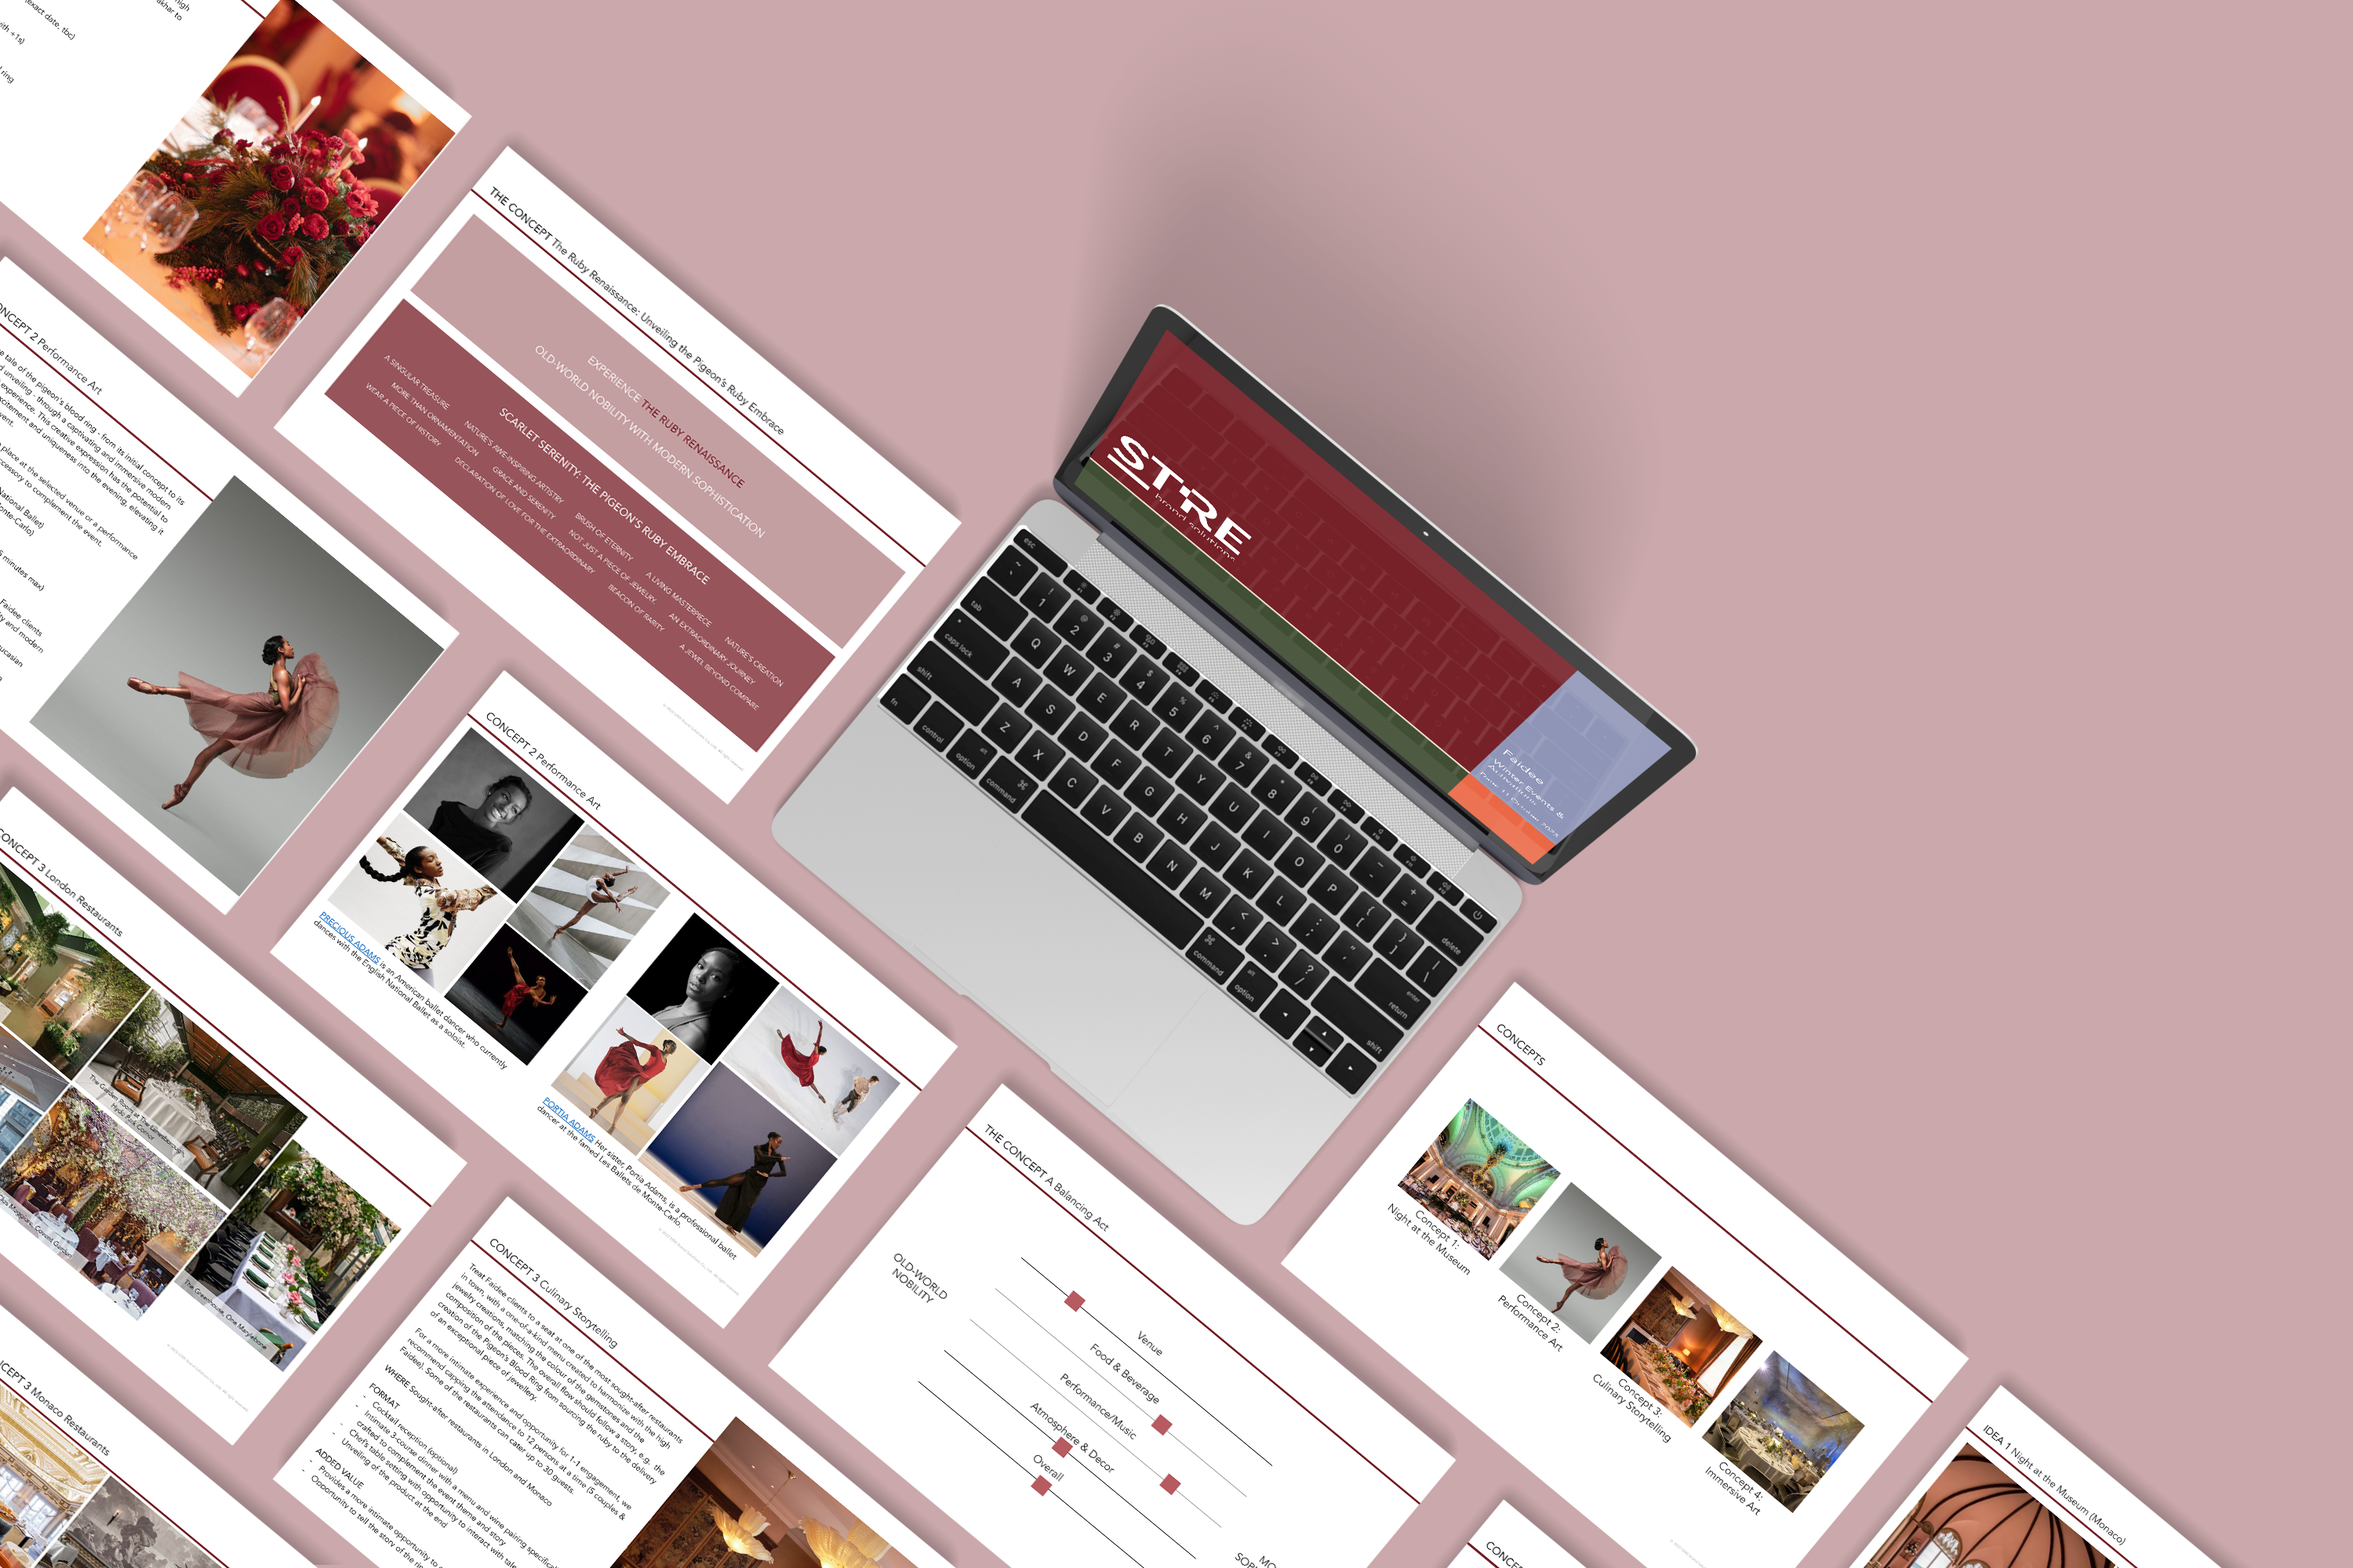
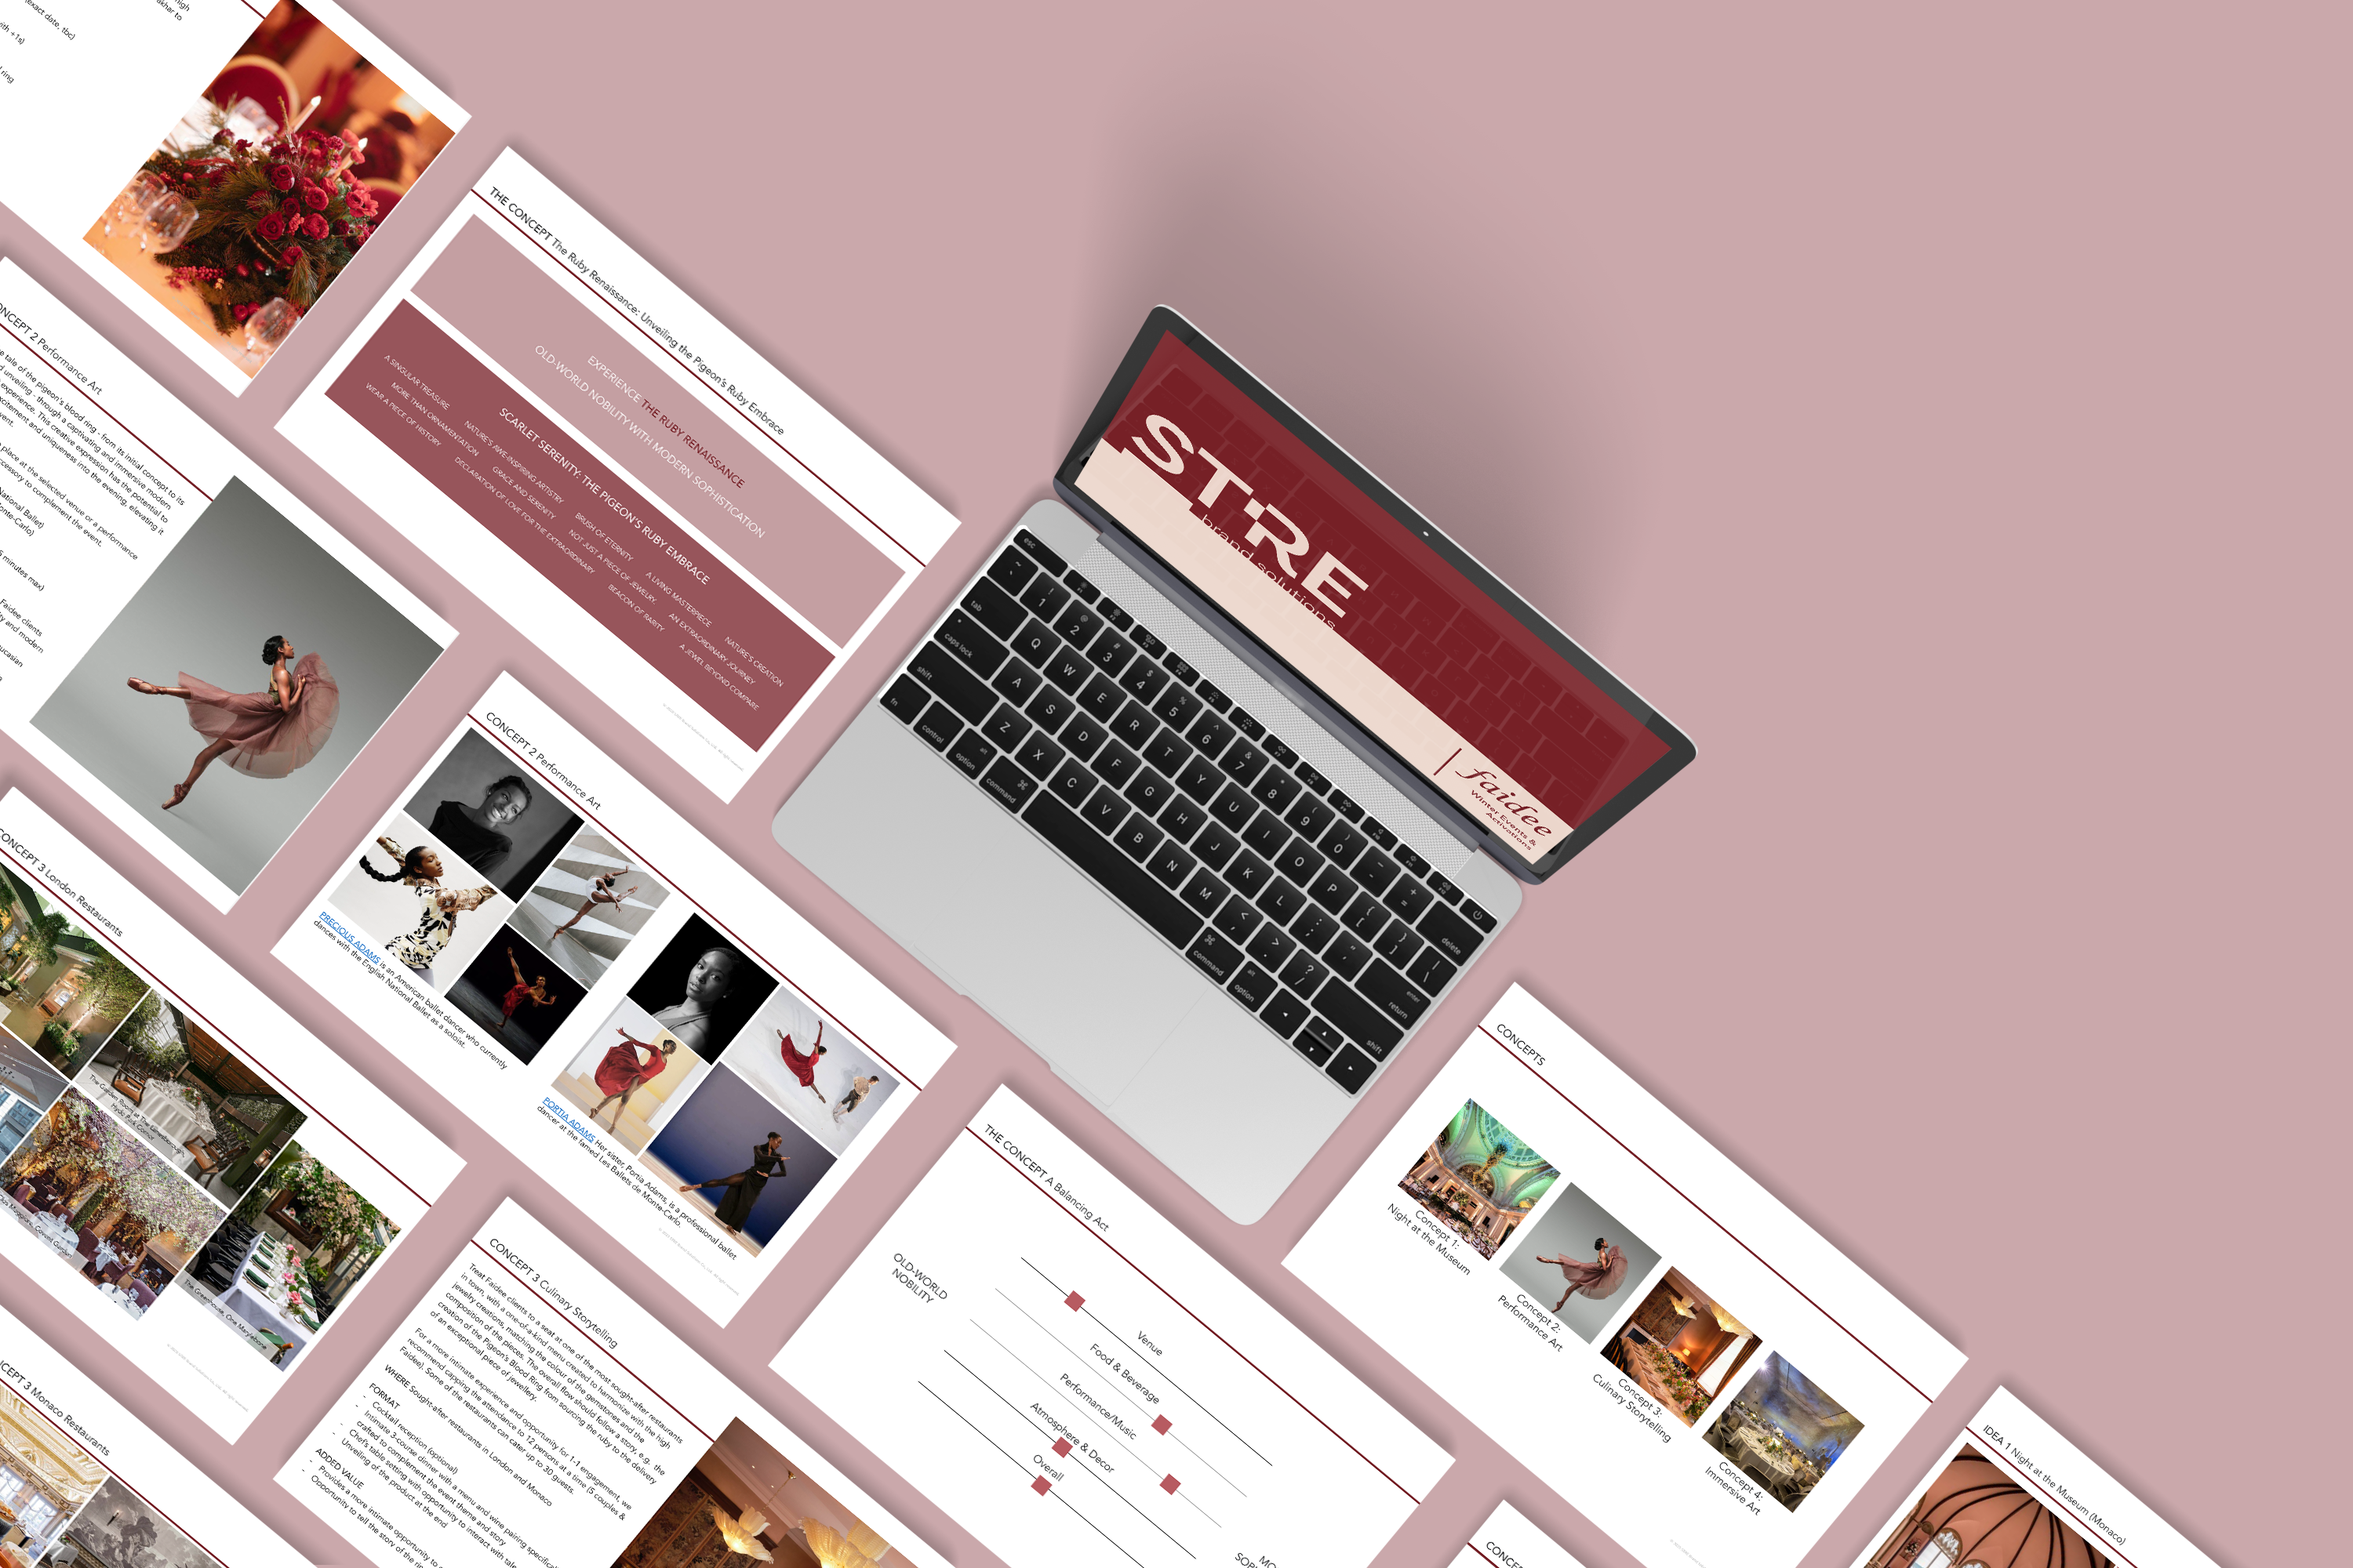
Updates w/ Nadia 270524

Changed region(s): [[0.434, 0.248, 0.713, 0.558]]

diff --git a/case-study-1.html b/case-study-1.html
@@ -175,11 +175,12 @@ Header END -->
 		<main>
 			<!-- =======================
 	Inner intro START -->
-			<section>
+			<section class="py-4">
 				<div class="container">
 					<div class="row d-flex justify-content-md-between">
 						<!-- Inner intro title -->
 						<div class="col-md-12 col-lg-12">
+							<span class="fw-normal display-8 d-block mb-3">Case study</span>
 							<h1 class="display-5 text-primary">Faidee</h1>
 							<h1 class="display-8">Research & Brand Strategy</h1>
 							<p class="lead">
@@ -196,7 +197,7 @@ Header END -->
 
 			<!-- =======================
 	Case study details START -->
-			<section class="pt-0 mt-8 bg-light mb-0">
+			<section class="pt-0 mt-8 bg-light mb-0 pb-7">
 				<div class="container">
 					<div class="row">
 						<!-- Image -->
@@ -229,14 +230,14 @@ Header END -->
 								luxury. Our intention with this strategic adjustment was to
 								position Faidee as a 'high jewelry brand that inspires and
 								excites,' shifting away from being perceived merely as a 'source
-								of rubies.
-							</span><br><br>
+								of rubies'. </span
+							><br /><br />
 							<span class="lead">
-								Building on the brand strategy, STRE also
-								collaborated with Faidee on the development of the brand CI
-								Manual, event ideation for their year-end galas in Monaco and
-								London, and the creation of a social media strategy, along with
-								monthly management of their Facebook and Instagram platforms.
+								Building on the brand strategy, STRE also collaborated with
+								Faidee on the development of the brand CI Manual, event ideation
+								for their year-end galas in Monaco and London, and the creation
+								of a social media strategy, along with monthly management of
+								their Facebook and Instagram platforms.
 							</span>
 						</div>
 						<!-- Features -->
@@ -251,8 +252,8 @@ Header END -->
 			<section
 				class="bg-parallax bg-dark-overlay-7 pb-9"
 				style="
-					background: url(/template/assets/images/stre_portfolio/RMC_SocialMedia_StrategyMockUp_V2.png) no-repeat center
-						center;
+					background: url(/template/assets/images/stre_portfolio/RMC_SocialMedia_StrategyMockUp_V2.png)
+						no-repeat center center;
 					background-size: cover;
 				"
 			>
@@ -263,8 +264,13 @@ Header END -->
 								<h2 class="text-white display-4 text-primary mb-3">
 									Next project
 								</h2>
-								<h5 class="text-white mb-5">GETTING CLIENTS TO IMMERSE IN THE ENCHANTING WORLD OF RUBIES ONLINE</h5>
-								<a href="case-study-2.html" class="btn btn-primary btn-line">Next case</a>
+								<h5 class="text-white mb-5">
+									GETTING CLIENTS TO IMMERSE IN THE ENCHANTING WORLD OF RUBIES
+									ONLINE
+								</h5>
+								<a href="case-study-2.html" class="btn btn-primary btn-line"
+									>Next case</a
+								>
 							</div>
 						</div>
 					</div>

diff --git a/index.html b/index.html
@@ -218,13 +218,12 @@ About START -->
 				<div class="container">
 					<div class="row d-flex justify-content-between">
 						<!-- About Left -->
-						<div class="col-md-6">
-							<h2 class="mb-4">
-								BRANDING —
-								<div>The Art of Influencing People</div>
+						<div class="col-md-7">
+							<h2 class="mb-4 text-primary">
+								BRANDING - <span class="font-alt text-dark">The Art of Influencing People</span>
 							</h2>
 							<p class="lead mb-4">
-								We are a Bangkok-based team of Brand Strategists and Specialists
+								Hello, we’re STRE Brand Solutions, but you can call us STRE (pronounced “strei”, like hey!). e are a Bangkok-based team of Brand Strategists and Specialists
 								working on a global scale to define and refine your brand via a
 								concise and clear brand strategy. <br /><br />
 								By providing strategic direction for your brand, we deftly
@@ -486,7 +485,25 @@ Clients START -->
 								<div class="col-6 col-sm-4 col-lg-3 h-100">
 									<div class="mb-4 p-4 bg-dark text-center h-100"><a href="coming-soon.html">
 										<img
-											src="template\assets\images\clients\STRE_CLIENTS\BaanSarin.svg"
+											src="template\assets\images\clients\STRE_CLIENTS\Sistomat_Logo.svg"
+											alt=""
+										/>
+									</div></a>
+								</div>
+								<!-- Logo item -->
+								<div class="col-6 col-sm-4 col-lg-3 h-100">
+									<div class="mb-4 p-4 bg-dark text-center h-100"><a href="coming-soon.html">
+										<img
+											src="template\assets\images\clients\STRE_CLIENTS\AIA_Logo.svg"
+											alt=""
+										/>
+									</div></a>
+								</div>
+								<!-- Logo item -->
+								<div class="col-6 col-sm-4 col-lg-3 h-100">
+									<div class="mb-4 p-4 bg-dark text-center h-100"><a href="coming-soon.html">
+										<img
+											src="template\assets\images\clients\STRE_CLIENTS\Akasha_Logo.svg"
 											alt=""
 										/>
 									</div></a>

diff --git a/case-study-4.html b/case-study-4.html
@@ -175,7 +175,7 @@ Header END -->
 		<main>
 			<!-- =======================
 	Inner intro START -->
-			<section>
+			<section class="py-4">
 				<div class="container">
 					<div class="row d-flex justify-content-md-between">
 						<!-- Inner intro title -->
@@ -194,7 +194,7 @@ Header END -->
 
 			<!-- =======================
 	Case study details START -->
-			<section class="pt-0 mt-8 bg-light mb-0">
+			<section class="pt-0 mt-8 bg-light mb-0 pb-7">
 				<div class="container">
 					<div class="row">
 						<!-- Image -->
@@ -252,7 +252,7 @@ Header END -->
 			<section
 				class="bg-parallax bg-dark-overlay-7 pb-9"
 				style="
-					background: url(/template/assets/images/stre_portfolio/Pear_Blossom_Cakes_BrandPlatform_MockUp.png)
+					background: url(/template/assets/images/stre_portfolio/PearBlossomCake_Branding_2.png)
 						no-repeat center center;
 					background-size: cover;
 				"

diff --git a/case-study-2.html b/case-study-2.html
@@ -175,7 +175,7 @@ Header END -->
 		<main>
 			<!-- =======================
 	Inner intro START -->
-			<section>
+			<section class="py-4">
 				<div class="container">
 					<div class="row d-flex justify-content-md-between">
 						<!-- Inner intro title -->
@@ -196,7 +196,7 @@ Header END -->
 
 			<!-- =======================
 	Case study details START -->
-			<section class="pt-0 mt-8 bg-light mb-0">
+			<section class="pt-0 mt-8 bg-light mb-0 pb-7">
 				<div class="container">
 					<div class="row">
 						<!-- Image -->

diff --git a/case-study-3.html b/case-study-3.html
@@ -175,7 +175,7 @@ Header END -->
 		<main>
 			<!-- =======================
 	Inner intro START -->
-			<section>
+			<section class="py-4">
 				<div class="container">
 					<div class="row d-flex justify-content-md-between">
 						<!-- Inner intro title -->
@@ -196,7 +196,7 @@ Header END -->
 
 			<!-- =======================
 	Case study details START -->
-			<section class="pt-0 mt-8 bg-light mb-0">
+			<section class="pt-0 mt-8 bg-light mb-0 pb-7">
 				<div class="container">
 					<div class="row">
 						<!-- Image -->

diff --git a/case-study-5.html b/case-study-5.html
@@ -175,7 +175,7 @@ Header END -->
 		<main>
 			<!-- =======================
 	Inner intro START -->
-			<section>
+			<section class="py-4">
 				<div class="container">
 					<div class="row d-flex justify-content-md-between">
 						<!-- Inner intro title -->
@@ -194,7 +194,7 @@ Header END -->
 
 			<!-- =======================
 	Case study details START -->
-			<section class="pt-0 mt-8 bg-light mb-0">
+			<section class="pt-0 mt-8 bg-light mb-0 pb-7">
 				<div class="container">
 					<div class="row">
 						<!-- Image -->

diff --git a/portfolio.html b/portfolio.html
@@ -192,7 +192,7 @@ Header END -->
 							/>
         </div>
         <div class="col-md-6">
-          <h1 class="h2 text-start">Scroll down to check out <span class="text-primary">our projects</span> & learn more about work we have done<span class="text-primary">.</span></h1>
+          <h1 class="h2 text-start">Scroll down to check out our brand solutions & learn more about <span class="text-primary">our projects</span> branded by STRE.</h1>
         </div>
       </div>
     </div>
